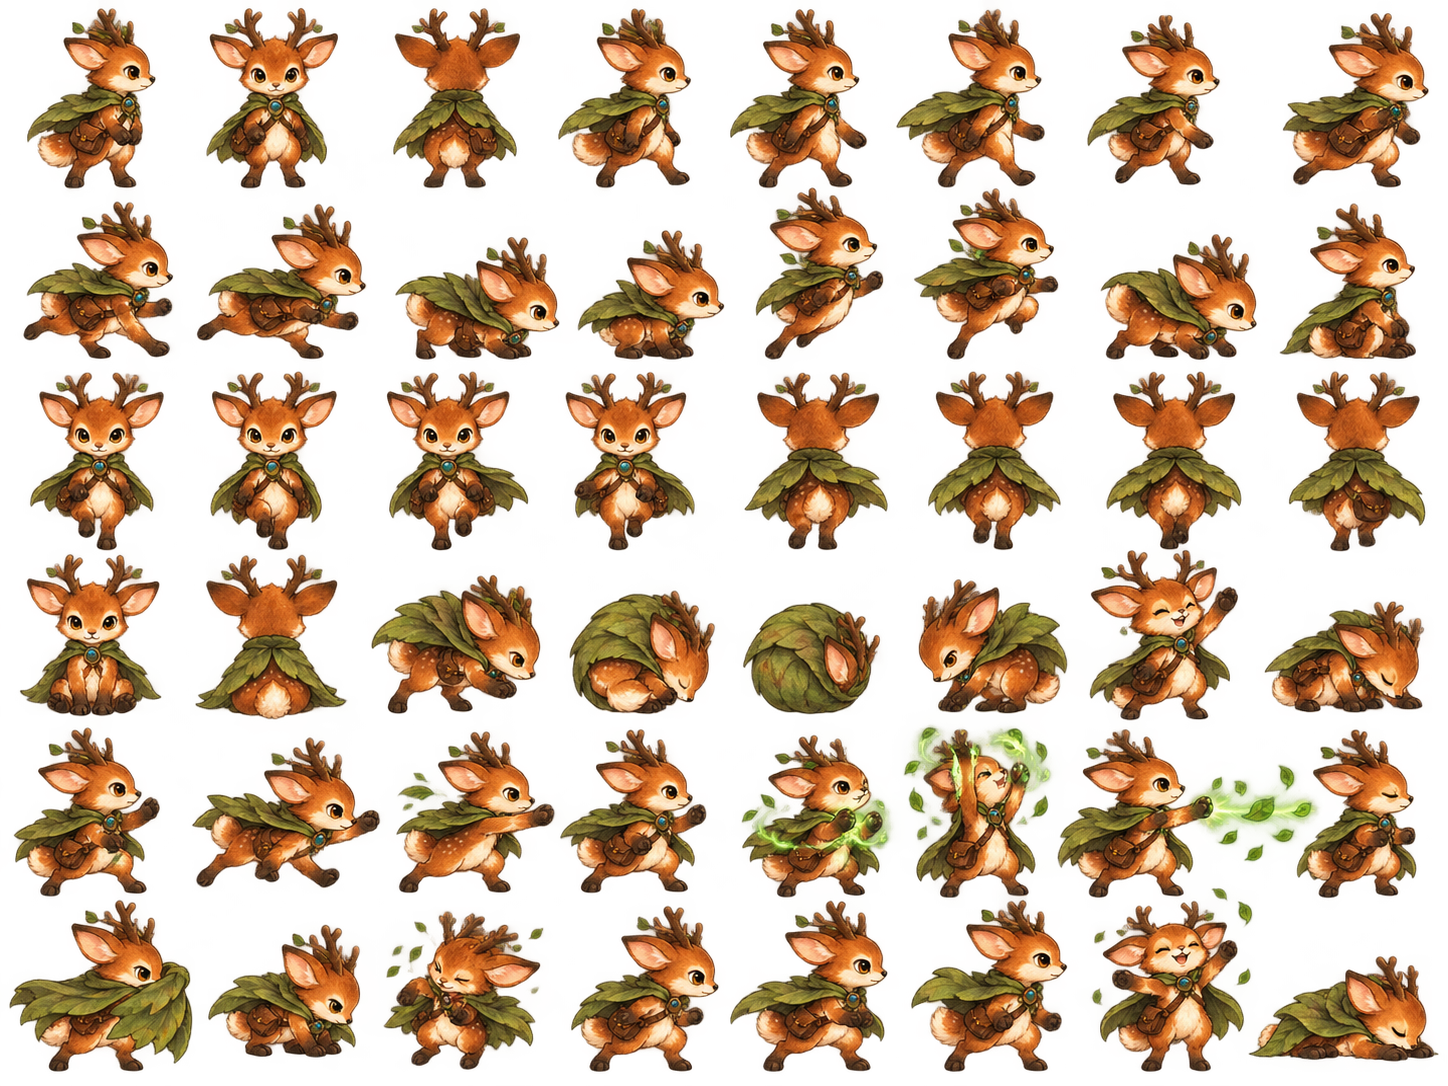
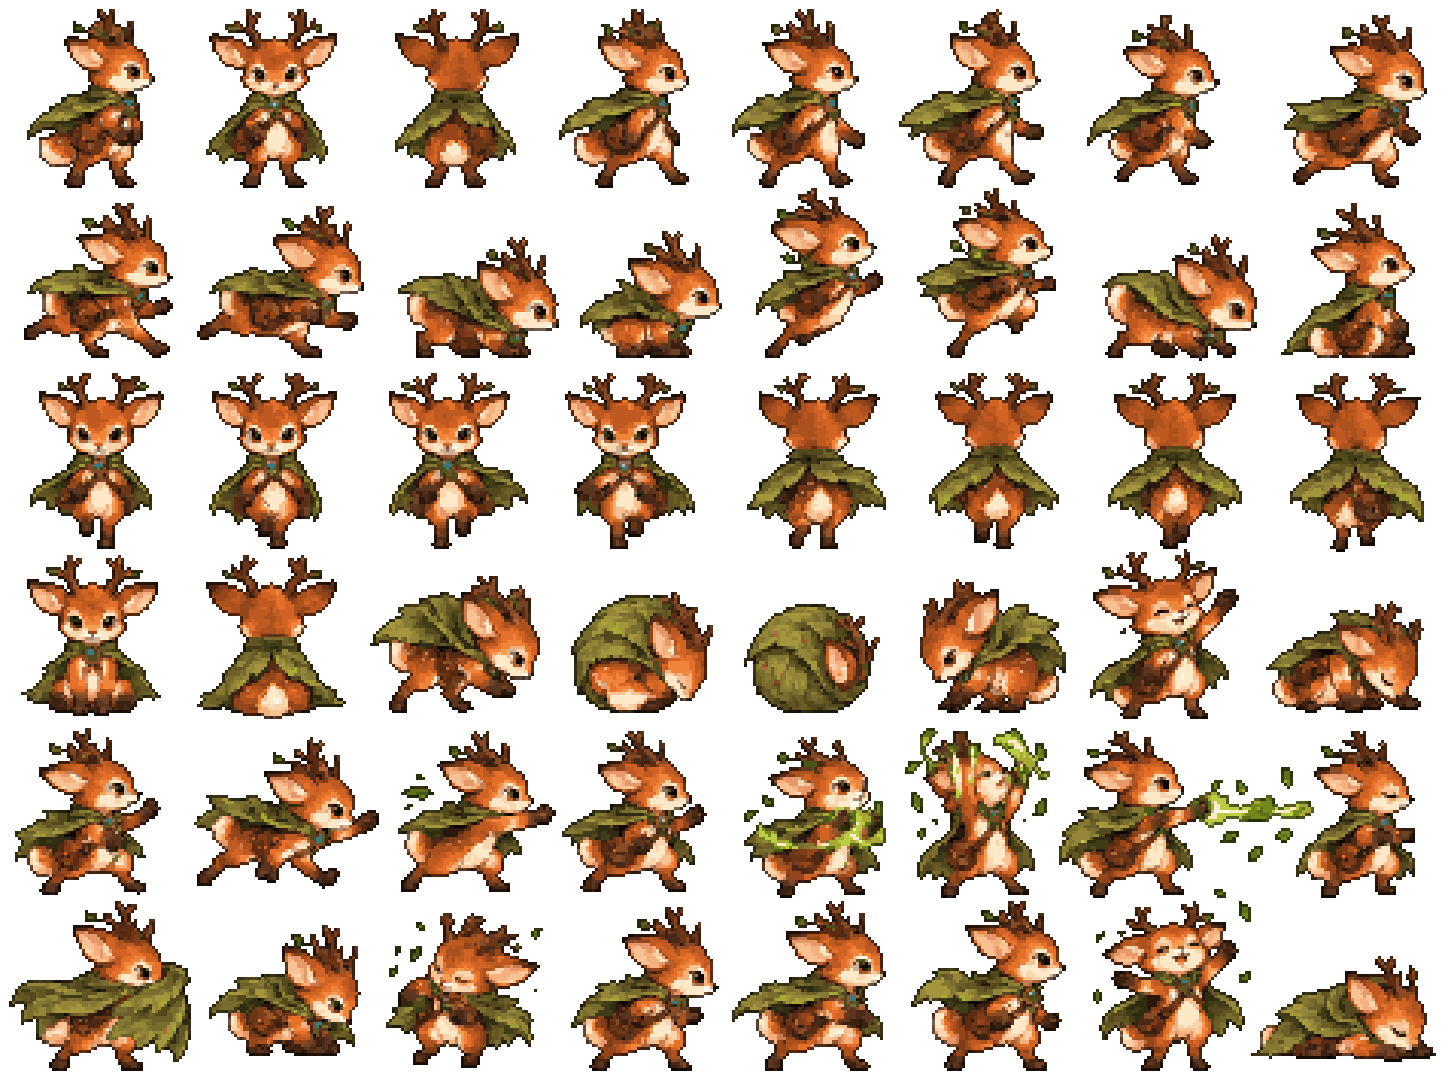
HD-2D-Pixelpass fuer die vier Spielfiguren (Test, keine APK)
Vorhandene gemalte Atlanten von Mooslyn, Nocti, Starlet und Wyrmling in Pixel Art
umgewandelt (feste Pixeldichte, 44-Farben-Palette je Figur, Kontur). Raster und
Groesse unveraendert, Figuren werden pixelscharf (nearest, ohne VRAM-Kompression)
gezeichnet. Werkzeug unter tools/pixel-pass, Spielaufnahme-Skript unter preview_pixel.

Claude-Session: https://claude.ai/code/session_01TdNgszGJJhJgY79BPTc1AC

Changed region(s): [[0.0, 0.0, 0.9945, 1.0], [0.2797, 0.0, 0.4972, 0.1823], [0.7459, 0.0, 0.8391, 0.1823]]

diff --git a/tools/pixel-pass/pixel_pass.py b/tools/pixel-pass/pixel_pass.py
@@ -1,0 +1,102 @@
+"""HD-2D-Pixelpass fuer die gemalten Figuren-Atlanten (Octopath/FF-Resonance-Stil).
+
+Jede Atlasdatei bleibt in Groesse und Raster unveraendert: Die Figur wird auf eine
+feste Pixeldichte verkleinert, auf eine gemeinsame Palette je Figur reduziert,
+von Einzelpixeln bereinigt, mit einer selektiven dunklen Kontur versehen und
+anschliessend blockweise (naechster Nachbar) auf die Originalgroesse gebracht.
+Alle Code-Metriken (Zellen, Alphakonturen, Anker) bleiben damit gueltig.
+
+Aufruf: python3 tools/pixel-pass/pixel_pass.py <atlas-ordner> [--art-height 56]
+"""
+import argparse, glob, json, os
+import numpy as np, cv2
+from PIL import Image
+from scipy import ndimage
+
+SPECIES = {'mosslyn': 1.02, 'nocti': 0.88, 'starlet': 0.90, 'wyrmling': 1.19}
+# Je Figur: welche Dateien, und deren typische Figurenhoehe im Atlas (gemessen).
+NCOL = 44
+
+
+def figure_height(alpha):
+    lab, n = ndimage.label(alpha > 40)
+    hs = sorted(s[0].stop - s[0].start for s in ndimage.find_objects(lab) if s[0].stop - s[0].start > 60)
+    return hs[len(hs) // 2]
+
+
+def downscale(rgba, w, h):
+    a = rgba[..., 3:4].astype(np.float32) / 255
+    c = rgba[..., :3].astype(np.float32) / 255
+    pm = cv2.resize(c * a, (w, h), interpolation=cv2.INTER_AREA)
+    aa = cv2.resize(a[..., 0], (w, h), interpolation=cv2.INTER_AREA)
+    col = pm / np.maximum(aa[..., None], 1e-4)
+    blur = cv2.GaussianBlur(col, (0, 0), 0.8)
+    col = np.clip(col + 0.5 * (col - blur), 0, 1)
+    return (col * 255).astype(np.uint8), aa > 0.5
+
+
+def clean(idx, cen):
+    H, W = idx.shape
+    for _ in range(2):
+        new = idx.copy()
+        for y in range(1, H - 1):
+            for x in range(1, W - 1):
+                if idx[y, x] < 0:
+                    continue
+                nb = [idx[y - 1, x], idx[y + 1, x], idx[y, x - 1], idx[y, x + 1]]
+                if idx[y, x] not in nb:
+                    v = [q for q in nb if q >= 0]
+                    if len(v) >= 3:
+                        best = max(set(v), key=v.count)
+                        if np.abs(cen[best] - cen[idx[y, x]]).sum() < 55:
+                            new[y, x] = best
+        idx = new
+    return idx
+
+
+def process_species(folder, sp, art_height, report):
+    files = sorted(f for f in glob.glob(os.path.join(folder, sp + '*.png')))
+    target = art_height * SPECIES[sp] / SPECIES['mosslyn']
+    small = []
+    for f in files:
+        rgba = np.array(Image.open(f).convert('RGBA'))
+        H, W = rgba.shape[:2]
+        s = target / figure_height(rgba[..., 3])
+        w, h = max(1, round(W * s)), max(1, round(H * s))
+        col, m = downscale(rgba, w, h)
+        small.append((f, rgba, col, m, s))
+    pts = np.concatenate([cv2.cvtColor(c, cv2.COLOR_RGB2LAB)[m] for _, _, c, m, _ in small]).astype(np.float32)
+    if len(pts) > 400000:
+        pts = pts[np.random.default_rng(0).choice(len(pts), 400000, replace=False)]
+    crit = (cv2.TERM_CRITERIA_EPS + cv2.TERM_CRITERIA_MAX_ITER, 60, 0.2)
+    _, _, cen = cv2.kmeans(pts, NCOL, None, crit, 4, cv2.KMEANS_PP_CENTERS)
+    pal = cv2.cvtColor(cen.reshape(1, -1, 3).astype(np.uint8), cv2.COLOR_LAB2RGB).reshape(-1, 3)
+    for f, rgba, col, m, s in small:
+        lab = cv2.cvtColor(col, cv2.COLOR_RGB2LAB).astype(np.float32)
+        idx = np.full(m.shape, -1)
+        d = ((lab[m][:, None, :] - cen[None]) ** 2).sum(-1)
+        idx[m] = d.argmin(-1)
+        idx = clean(idx, cen)
+        img = np.zeros(idx.shape + (4,), np.uint8)
+        img[idx >= 0, :3] = pal[idx[idx >= 0]]
+        img[idx >= 0, 3] = 255
+        a = idx >= 0
+        edge = a & ~ndimage.binary_erosion(a)
+        img[edge, :3] = (img[edge, :3].astype(float) * 0.45).astype(np.uint8)
+        H, W = rgba.shape[:2]
+        big = np.array(Image.fromarray(img).resize((W, H), Image.NEAREST))
+        Image.fromarray(big).save(f, optimize=True)
+        report[os.path.basename(f)] = {'scale': round(s, 4), 'art_size': list(img.shape[1::-1])}
+
+
+if __name__ == '__main__':
+    ap = argparse.ArgumentParser()
+    ap.add_argument('folder')
+    ap.add_argument('--art-height', type=float, default=56.0)
+    ap.add_argument('--species', nargs='*', default=list(SPECIES))
+    args = ap.parse_args()
+    report = {'art_height_mosslyn': args.art_height, 'palette_colors': NCOL, 'files': {}}
+    for sp in args.species:
+        process_species(args.folder, sp, args.art_height, report['files'])
+        print('ok', sp)
+    json.dump(report, open(os.path.join(args.folder, 'pixel_pass.json'), 'w'), indent=1)

diff --git a/tools/pixel-pass/README.md b/tools/pixel-pass/README.md
@@ -1,0 +1,19 @@
+# HD-2D-Pixelpass für die Figuren-Atlanten
+
+`python3 tools/pixel-pass/pixel_pass.py prototypes/godot-hd2d/assets/characters --art-height 56`
+
+Wandelt die gemalten Atlanten von Mooslyn, Nocti, Starlet und Wyrmling in Pixel Art um
+(Octopath/FF-Resonance-Stil): feste Pixeldichte (Mooslyn 56 Pixel hoch, andere Figuren
+nach `relative_height`), eine gemeinsame Palette mit 44 Farben je Figur, Einzelpixel-
+Bereinigung und dunkle Außenkontur. Die Dateien behalten Größe und Raster; die Pixel
+werden blockweise auf die Originalgröße gebracht. Zellen, Alphakonturen und Anker im
+Code bleiben dadurch gültig. Ergebnis je Datei steht in `assets/characters/pixel_pass.json`.
+
+Dazu zeichnen `painted_character.gdshader`, `character_actor.gd` und `compact_actor.gd`
+die Figuren mit `nearest` statt `linear`, und die Atlanten werden nicht VRAM-komprimiert
+(`detect_3d/compress_to=0`), damit die Pixel scharf bleiben.
+
+Rückweg: Die gemalten Originale liegen unverändert in der Git-Historie (Commit vor dem Pass).
+
+Spielaufnahme (echte Steuerung über den Touch-Stick, 30 Bilder/s):
+`TAG=moos SPECIES=mosslyn PLACE=PARK xvfb-run -a godot --rendering-driver opengl3 --fixed-fps 30 --path prototypes/godot-hd2d -s res://preview_pixel/play_capture.gd`
